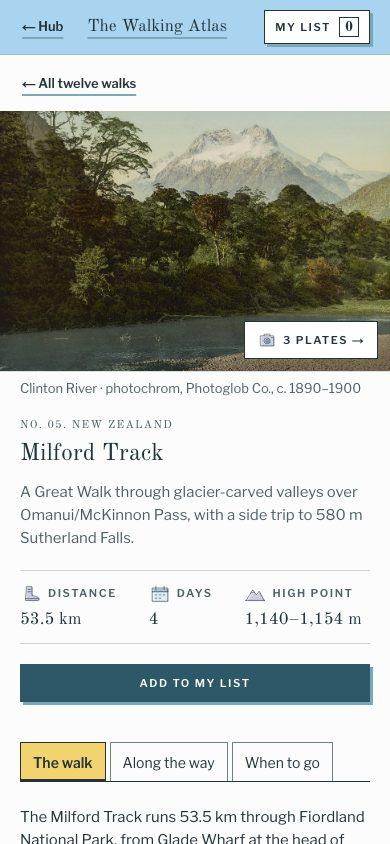
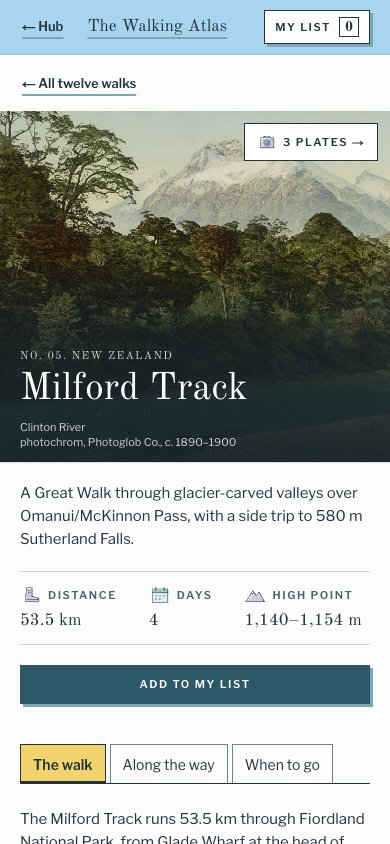
feat: phone walk page prints the name over the large print; route stops counted between the ends

diff --git a/src/components/dawn/ds/Guide.tsx b/src/components/dawn/ds/Guide.tsx
@@ -83,22 +83,28 @@ const LEVEL: Record<Level, { label: string; fill: string }> = {
 
 /** Largest first: the best months in big type with the key to the colours right beside it; then the year as a thin
  *  band with the months beneath; the reasons wait behind "Why these months?". Not a control. */
-export function SeasonStrip({ season }: { season: Season }) {
+/** `aside` (the permit stamp, on a phone) sits beside the headline and key, where the line leaves room. */
+export function SeasonStrip({ season, aside }: { season: Season; aside?: React.ReactNode }) {
   const levels = MONTHS.map((m) => season.months[m] ?? "possible");
   const best = MONTHS.filter((_, i) => levels[i] === "best");
   const closed = season.notes.filter((n) => n.level === "closed");
   const used = (["best", "possible", "closed"] as const).filter((l) => levels.includes(l));
   return (
     <div>
-      <p className={`${t24} flex items-center gap-2`}><PlateIcon name="sunrise" size={26} />Best {monthRange(best)}</p>
-      <ul aria-hidden="true" className={`${t14} mt-2 flex flex-wrap gap-x-4 gap-y-1 text-dw-ink`}>
-        {used.map((l) => (
-          <li key={l} className="flex items-center gap-1.5">
-            <span className={`inline-block h-1.5 w-6 ${LEVEL[l].fill} ${l === "closed" ? "outline outline-1 outline-dw-border" : ""}`} />
-            {l === "closed" && closed.length ? `${closed.map((n) => n.short ?? "Closed").join(", ").replace(/^./, (c) => c.toUpperCase())}` : LEVEL[l].label}
-          </li>
-        ))}
-      </ul>
+      <div className="flex items-start justify-between gap-4">
+        <div className="min-w-0">
+          <p className={`${t24} flex items-center gap-2`}><PlateIcon name="sunrise" size={26} />Best {monthRange(best)}</p>
+          <ul aria-hidden="true" className={`${t14} mt-2 flex flex-wrap gap-x-4 gap-y-1 text-dw-ink`}>
+            {used.map((l) => (
+              <li key={l} className="flex items-center gap-1.5">
+                <span className={`inline-block h-1.5 w-6 ${LEVEL[l].fill} ${l === "closed" ? "outline outline-1 outline-dw-border" : ""}`} />
+                {l === "closed" && closed.length ? `${closed.map((n) => n.short ?? "Closed").join(", ").replace(/^./, (c) => c.toUpperCase())}` : LEVEL[l].label}
+              </li>
+            ))}
+          </ul>
+        </div>
+        {aside}
+      </div>
       <div aria-hidden="true" className="mt-3 max-w-xl">
         <div className="grid h-3 grid-cols-12 border border-dw-border">
           {MONTHS.map((m, i) => <span key={m} className={`${LEVEL[levels[i]].fill} ${i > 0 ? "border-l border-dw-mount" : ""}`} />)}
@@ -146,8 +152,8 @@ export function PlateThumb({ photo, n, selected, force, onClick, label }: { phot
 export function HeroPlate({ photo, count, onOpen, label, priority = false }: { photo: TrailPhoto; count: number; onOpen?: () => void; label: string; priority?: boolean }) {
   return (
     <button type="button" onClick={onOpen} aria-label={label} className={`group block w-full text-left sm:p-3.5 ${card.rest} ${cardLive}`}>
-      <TonedPhoto photo={photo} sizes="(min-width: 1024px) 660px, 100vw" priority={priority} className={`aspect-[3/2] sm:aspect-[4/3] sm:border-[3px] sm:border-dw-ink ${colourUp}`} />
-      <span className={`${t12} absolute bottom-3 right-3 flex items-center gap-1.5 border sm:bottom-7 sm:right-7 border-dw-ink bg-dw-mount px-3 py-2 transition-colors duration-[600ms] group-hover:bg-dw-sky`}><PlateIcon name="camera" size={20} />{count} plates →</span>
+      <TonedPhoto photo={photo} sizes="(min-width: 1024px) 660px, 100vw" priority={priority} className={`aspect-[10/9] sm:aspect-[4/3] sm:border-[3px] sm:border-dw-ink ${colourUp}`} />
+      <span className={`${t12} absolute right-3 top-3 flex items-center gap-1.5 border sm:bottom-7 sm:right-7 sm:top-auto border-dw-ink bg-dw-mount px-3 py-2 transition-colors duration-[600ms] group-hover:bg-dw-sky`}><PlateIcon name="camera" size={20} />{count} plates →</span>
     </button>
   );
 }
@@ -159,7 +165,7 @@ export function NeighbourLink({ href, label, name, photo }: { href: string; labe
       <TonedPhoto photo={photo} sizes="120px" className={`aspect-[4/3] w-full shrink-0 border-2 border-dw-ink sm:w-28 ${colourUp}`} />
       <span className="min-w-0">
         <span className={`${t12} block text-dw-muted`}>{label}</span>
-        <span className={`${t24} mt-1 block decoration-dw-lake decoration-2 underline-offset-4 group-hover:underline`}>{name}</span>
+        <span className={`${t24} mt-1 block underline decoration-dw-lake decoration-2 underline-offset-[6px] ${slow} group-hover:decoration-dw-ink group-hover:underline-offset-[3px]`}>{name}</span>
       </span>
     </>
   );

diff --git a/src/app/trails/TrailDetail.tsx b/src/app/trails/TrailDetail.tsx
@@ -17,7 +17,7 @@ import { PlatesViewer } from "@/components/dawn/ds/Viewer";
 import { plateNo, sourceLabel } from "./plate";
 import { useTrails } from "./state";
 import { coverIndex, neighbours } from "./walks";
-import { t12, t12caption, t14, t17, t24, t48 } from "./type";
+import { t12, t12caption, t14, t17, t24, t48, t96 } from "./type";
 
 const photos = rawPhotos as Record<string, TrailPhoto[]>;
 
@@ -40,6 +40,7 @@ function Facts({ h }: { h: Hike }) {
 
 function Details({ h }: { h: Hike }) {
   const t = intros[h.id];
+  const stamp = h.permit ? "Permit needed" : "No permit needed";
   return (
     <PlateTabs
       idPrefix={h.id}
@@ -54,9 +55,10 @@ function Details({ h }: { h: Hike }) {
         <RouteMap key="route" nodes={routeNodes(h, routes[h.id])} idPrefix={h.id} />,
         <div key="when" className="flex flex-wrap items-start gap-x-8 gap-y-4">
           <div className="min-w-0 flex-1 basis-full sm:basis-0">
-            <SeasonStrip season={seasons[h.id]} />
+            {/* on a phone the stamp sits beside "Best …", where the line leaves room; from 640px, beside the band */}
+            <SeasonStrip season={seasons[h.id]} aside={<EmbossStamp text={stamp} uid={`${h.id}-stamp-phone`} className="h-16 w-16 shrink-0 sm:hidden" />} />
           </div>
-          <EmbossStamp text={h.permit ? "Permit needed" : "No permit needed"} uid={`${h.id}-stamp`} className="h-24 w-24 shrink-0" />
+          <EmbossStamp text={stamp} uid={`${h.id}-stamp`} className="hidden h-24 w-24 shrink-0 sm:block" />
         </div>,
       ]}
     />
@@ -99,19 +101,31 @@ export default function TrailDetail({ id }: { id: string }) {
   const inList = list.includes(h.id);
 
   return (
-    <article aria-labelledby="walk-title" className="mx-auto max-w-6xl px-5">
+    <article aria-label={h.name} className="mx-auto max-w-6xl px-5">
       <p className="mt-4 sm:mt-8"><PlateLink href="/trails/#walks" size="note">← All twelve walks</PlateLink></p>
 
       <div className="mt-4 grid grid-cols-1 gap-5 sm:mt-6 sm:gap-10 lg:grid-cols-[1.45fr_1fr] lg:items-end">
-        <figure className="m-0 -mx-5 min-w-0 sm:mx-0">
+        <figure className="relative m-0 -mx-5 min-w-0 sm:mx-0">
           <HeroPlate photo={own[ci]} count={own.length} onOpen={() => setViewAt(ci)} label={`See all ${own.length} plates of ${h.name}`} priority />
-          <figcaption className={`${t14} mt-2 px-5 text-dw-muted sm:mt-3 sm:px-0`}>{creditLine(own[ci])}</figcaption>
+          {/* Phone: the number, the name and the credit printed over the foot of the print, as on the index. A tap
+              still reaches the print beneath. */}
+          <div className="pointer-events-none absolute inset-x-0 bottom-0 bg-[linear-gradient(180deg,rgba(22,37,43,0),rgba(22,37,43,.72)_45%,rgba(22,37,43,.92))] px-5 pb-3 pt-24 text-dw-mount sm:hidden">
+            <p className={`${t12caption} text-dw-page/80`}>{plateNo(n)}. {h.country.join(", ")}</p>
+            <h1 className={`${t96} mt-1.5`}>{h.name}</h1>
+            <p className="mt-2.5 font-[family-name:var(--dw-ui)] text-[11px] leading-[15px] text-dw-page/80">
+              {creditLine(own[ci]).split(" · ").map((part) => <span key={part} className="block">{part}</span>)}
+            </p>
+          </div>
+          <figcaption className={`${t14} mt-3 hidden text-dw-muted sm:block`}>{creditLine(own[ci])}</figcaption>
         </figure>
 
         <div className="min-w-0 lg:pb-8">
-          <p className={`${t12caption} text-dw-muted`}>{plateNo(n)}. {h.country.join(", ")}</p>
-          <h1 id="walk-title" className={`${t48} mt-2`}>{h.name}</h1>
-          <p className={`${t17} mt-3 text-dw-muted sm:mt-4`}>{h.why}</p>
+          {/* from 640px the name stands beside the print; only one of the two titles is ever shown */}
+          <div className="hidden sm:block">
+            <p className={`${t12caption} text-dw-muted`}>{plateNo(n)}. {h.country.join(", ")}</p>
+            <h1 className={`${t48} mt-2`}>{h.name}</h1>
+          </div>
+          <p className={`${t17} text-dw-ink sm:mt-4 sm:text-dw-muted`}>{h.why}</p>
           <Facts h={h} />
           {/* full width on a phone, where the thumb reaches for it */}
           <div className="mt-5 [&>button]:w-full [&>button]:justify-center sm:mt-8 sm:[&>button]:w-auto">

diff --git a/src/app/design-systems/dawn/page.tsx b/src/app/design-systems/dawn/page.tsx
@@ -293,7 +293,7 @@ function Components() {
           ))}
         </div>
       </Block>
-      <Block title="Hero plate" note="The large print on a walk's page. It is the button to every plate.">
+      <Block title="Hero plate" note="The large print on a walk's page. It is the button to every plate. On a phone the walk's number, name and credit are printed over its foot, and a tap still opens the plates.">
         <div className="relative"><HeroPlate photo={cover} count={plates.length} label={`See all ${plates.length} plates of Milford Track`} /></div>
       </Block>
       <div className="space-y-4">
@@ -303,7 +303,7 @@ function Components() {
             <PlateThumb photo={plates[1]} n={2} selected label={`Plate 2: ${plates[1].place}`} />
           </div>
         </Block>
-        <Block title="Next-walk link" note="The walks either side, at the foot of a walk's page.">
+        <Block title="Next-walk link" note="The walks either side, at the foot of a walk's page. The name is underlined at rest, as every link is.">
           <NeighbourLink href="#next" label="Next walk →" name="Tongariro Alpine Crossing" photo={photos.tongariro[0]} />
         </Block>
       </div>
@@ -319,10 +319,10 @@ function Components() {
           }
         />
       </Block>
-      <Block title="Route map" note="Along the way: one line through every stop's icon; choose a stop to read about it. Arrow keys move.">
+      <Block title="Route map" note="Along the way: one line through every stop's icon; choose a stop to read about it. The ends are named Start and Finish; the points between are counted as stops (Stop 2 of 7), the same count as the heading. Arrow keys move.">
         <RouteMap nodes={routeNodes(milford, routes.milford)} idPrefix="ds-route" />
       </Block>
-      <Block title="Season band and stamp" note="The year as one thin band: best in sun with its months in bold, possible a sky wash, closed left white. One line of words on top; the reasons wait behind Why. Neither is a control.">
+      <Block title="Season band and stamp" note="The year as one thin band: best in sun with its months in bold, possible a sky wash, closed left white. One line of words on top; the reasons wait behind Why. On a phone the stamp sits beside that line. Neither is a control.">
         <div className="flex flex-wrap items-start gap-6">
           <div className="min-w-0 flex-1"><SeasonStrip season={seasons.milford} /></div>
           <div className="[&_svg]:h-24 [&_svg]:w-24"><EmbossStamp text="Permit needed" uid="ds-stamp" /></div>

diff --git a/src/components/dawn/ds/Interactive.tsx b/src/components/dawn/ds/Interactive.tsx
@@ -7,6 +7,7 @@ import { Tick } from "./Primitives";
 import { PlateIcon } from "../PlateArt";
 import { stopBase, stopState, type RouteNode } from "./Guide";
 import { t12, t14, t24 } from "./type";
+import { stopPosition } from "@/lib/route";
 
 /* ---------- tabs ---------- */
 
@@ -180,7 +181,7 @@ export function RouteMap({ nodes, idPrefix }: { nodes: RouteNode[]; idPrefix: st
               id={`${idPrefix}-stop-${i}`}
               type="button"
               aria-pressed={i === at}
-              aria-label={`${i + 1} of ${nodes.length}: ${s.name} (${s.label})`}
+              aria-label={`${s.name} (${[stopPosition(i, nodes.length), s.label].filter(Boolean).join(", ")})`}
               onClick={() => setAt(i)}
               className={`${stopBase} ${s.end ? "rounded-full" : ""} ${slow} ${i === at ? stopState.selected : `${stopState.rest} hover:bg-dw-sky hover:shadow-none`} active:translate-y-px active:bg-dw-lake active:shadow-[inset_0_2px_4px_rgba(34,51,58,.45)] ${focusRing}`}
             >
@@ -190,7 +191,7 @@ export function RouteMap({ nodes, idPrefix }: { nodes: RouteNode[]; idPrefix: st
         </div>
       </div>
       <div aria-live="polite" className="mt-2 min-h-28 border-t border-dw-ink/20 pt-3">
-        <p className={`${t12} text-dw-muted`}>{at + 1} of {nodes.length} · {n.label}</p>
+        <p className={`${t12} text-dw-muted`}>{[stopPosition(at, nodes.length), n.label].filter(Boolean).join(" · ")}</p>
         <p className={`${t24} mt-1`}>{n.name}</p>
         {n.note && <p className={`${t14} mt-1 text-dw-muted`}>{n.note}</p>}
       </div>

diff --git a/src/lib/route.ts b/src/lib/route.ts
@@ -1,0 +1,7 @@
+// Counting along a route map: the first and last points are its ends (start, finish); the ones between are its stops.
+
+/** "Stop 3 of 7" for a point between the ends; null for the two ends, which are named by their own label. */
+export function stopPosition(i: number, total: number): string | null {
+  if (i <= 0 || i >= total - 1) return null;
+  return `Stop ${i} of ${total - 2}`;
+}

diff --git a/log.md b/log.md
@@ -82,3 +82,4 @@
 - 我说"Twelve Trails"这个名字奇怪，要换。Claude 给了 First Light / Far Paths / The Walking Atlas / Daybreak Walks，我选 The Walking Atlas。全站（hub、网站标题和顶栏、各页标签名、情绪板和设计系统的示例字、README、AGENTS）一起换；网址 dbs-a2.vercel.app 不含名字，不受影响。电脑版大标题分三行，手机上一行放得下。
 - 我说 hub 有点怪。Claude 看整页后指出：最终成果（网站）只是一颗黑色胶囊按钮，"选了哪个、为什么"在它下面且是纯文字，顺序和分量反了；前两部分看不出选了 Dawn；Geist 字体加黑色圆角按钮太像模板；截图里还是旧名字。我同意改：顺序变为 1 情绪板 → 2 设计系统 → 3 我选的 Dawn 和网站（左边网站首屏大截图可点、右边 Dawn 和两条理由加"Open The Walking Atlas →"）→ 4 浏览器检查；两组卡片里 Dawn 加"Picked"标签；hub 自己的标题换成中性的书卷衬线体 Newsreader（不属于三种风格中任何一种），按钮改方形；检查项每条压成一行；截图用新名字重拍（米尔福德电脑版截到照片未加载，重拍并检查画面确有照片）。390/1440 无溢出。
 - 我说手机版首页还是乱：每条路线卡片的图太小、字太多、没有层级，标题区上下的字也多。Claude 截整页看：卡片图只有 80px，编号国家、名字、两行数字、"+ My list"按钮五样差不多大，12 张都在重复；第一条路线前要读五段字。做了两种效果给我选（A 一张大图、B 两张并排），我选 A。手机上：每条路线照片铺满宽度，下面只有"No. 01 · Peru"、名字（24px）、一行数字；"+ My list"折成照片右上角的小方块（新组件 List mark，没加是 +，加了是金底打勾，和副按钮同一套状态），已补进 Dawn 设计系统的按钮区、卡片说明和状态表；标题区去掉小标题、三行斜体缩成一句、署名放进照片底部两行小字（地点 / 谁印的、哪年），"The twelve walks"和提示语只留给读屏；搜索框和 Filters 并成一行（占位字缩短为"walk, country, place"，375 宽也放得下）。电脑版不变。实测：点 + 变金色打勾、顶栏 My list 变 1；无横向滚动；22 个测试通过；hub 的手机截图重拍。
+- 我让 Claude 看路线详情页手机版。Claude 截了整页、点开三个标签页看：顶部和首页同样的问题——路线名只有 24px（和首页卡片名一样大），照片下先一行署名再编号国家，名字挤到第三行，简介是灰字。做了 A（名字压在照片上）/ B（名字放大留在照片下）两种效果，我选 A。手机上：照片改高（10:9），编号、38px 白色名字、两行署名压在照片下部暗色渐变上，"3 Plates →"挪到右上角，点名字区域照样打开照片查看器；简介改深色。三处小问题一起改：① "Along the way"上面写 7 stops、下面写"1 of 9"对不上，改为起点写 Start、中间写"Stop 2 of 7"、终点写 Finish（先写测试，新增 2 个，共 24 个通过）；② "When to go"的许可印章在手机上缩小放到"Best …"那行右边；③ 上一条/下一条的路线名平时就带下划线。设计系统里大图、路线图、季节色带、上一条/下一条的说明同步。电脑版不变，390 无横向滚动；hub 的手机截图重拍。
